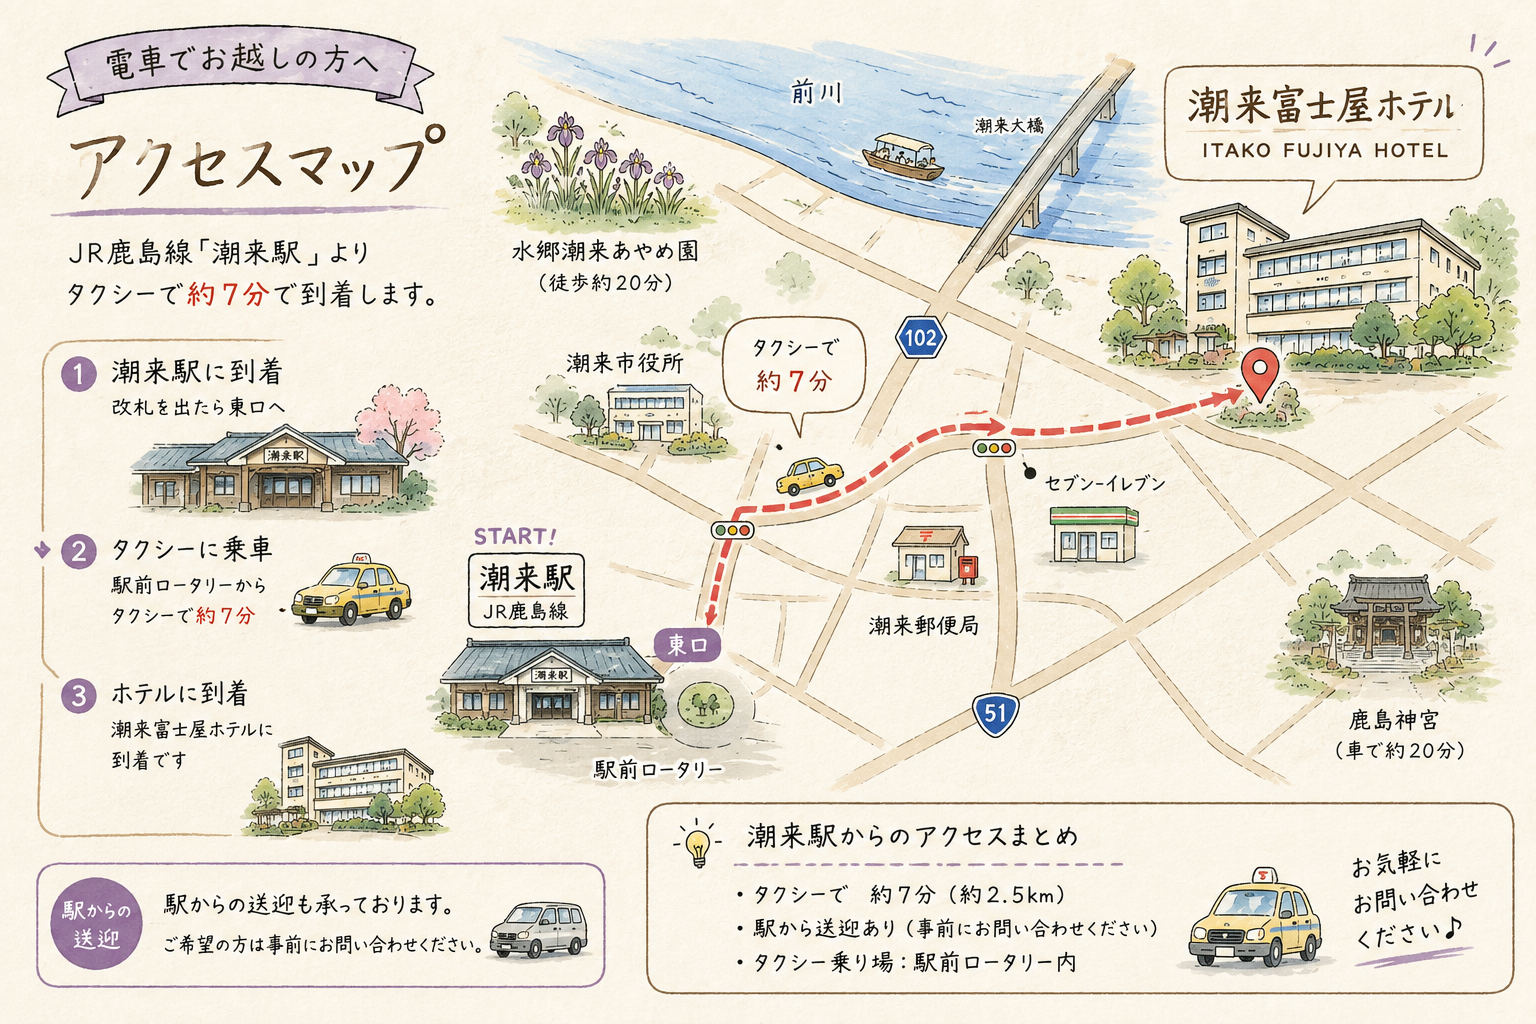
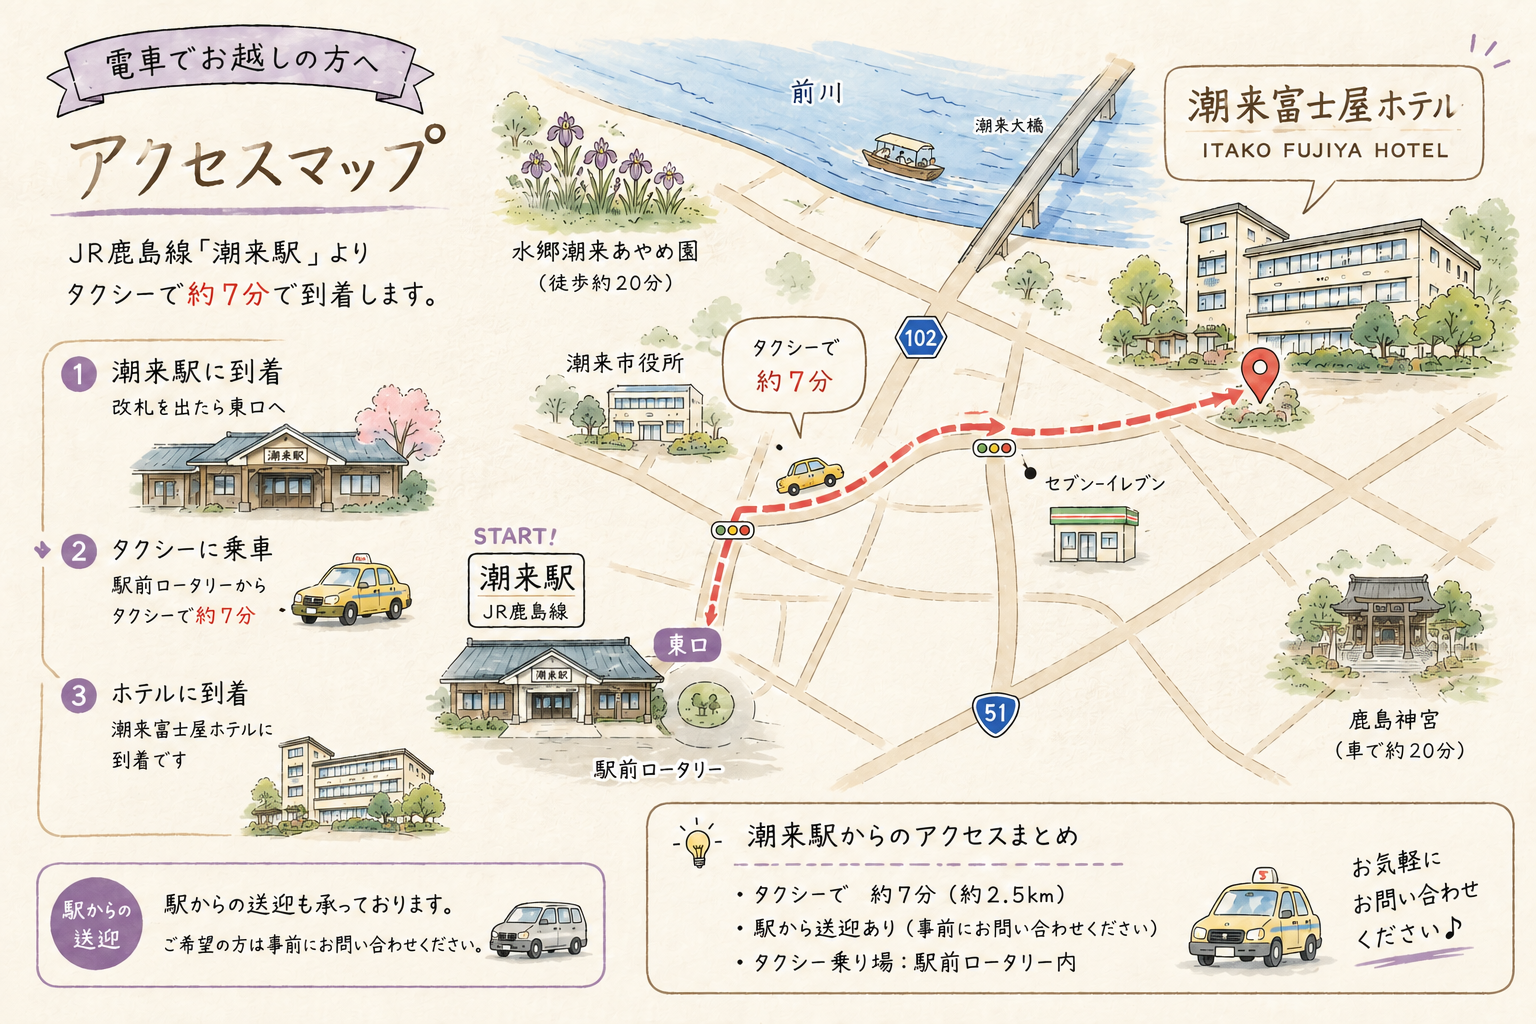
Update facilities and restore 16:00 check-in

diff --git a/src/i18n/public-translations.ts b/src/i18n/public-translations.ts
@@ -18,6 +18,12 @@ export const siteTranslations = {
     'booking.search': '空室を検索',
     'booking.searching': '確認中…',
     'booking.dateInputFormat': '年. 月. 日.',
+    'booking.availabilityChanged':
+      '選択された客室の空室状況が変更されました。恐れ入りますが、もう一度客室を選択してください。',
+    'booking.petPolicy': 'ペット同伴でのご宿泊はできません。',
+    'faq.petQuestion': 'ペットと一緒に宿泊できますか？',
+    'faq.petAnswer':
+      '申し訳ございませんが、ペット同伴でのご宿泊はできません。',
     'home.welcomeTitle': '庭を眺めながら、ゆったりとしたひとときを。',
     'home.welcomeDescription':
       '大きな窓から庭を望む、明るく開放的な空間。ご到着からご出発まで、どうぞゆっくりとお過ごしください。',
@@ -88,6 +94,11 @@ export const siteTranslations = {
     'booking.search': '객실 검색',
     'booking.searching': '확인 중…',
     'booking.dateInputFormat': '연도. 월. 일.',
+    'booking.availabilityChanged':
+      '선택하신 객실의 예약 가능 수량이 방금 변경되었습니다. 객실을 다시 선택해주세요.',
+    'booking.petPolicy': '반려동물 동반은 불가합니다.',
+    'faq.petQuestion': '반려동물과 함께 숙박할 수 있나요?',
+    'faq.petAnswer': '죄송하지만 반려동물 동반 숙박은 불가합니다.',
     'home.welcomeTitle': '정원을 바라보며, 여유로운 시간을.',
     'home.welcomeDescription':
       '큰 창 너머로 정원이 펼쳐지는 밝고 편안한 공간입니다. 도착부터 떠나는 순간까지, 편안하게 머물러 보세요.',
@@ -324,10 +335,6 @@ const publicPhrases: readonly [string, string][] = [
     '취소·변경·결제 등의 규정은 호텔 확인 후 게시합니다.',
   ],
   [
-    '予約・変更・キャンセル・お支払いに関する運用ルールは現在確認中です。',
-    '예약·변경·취소·결제 운영 규정은 현재 확인 중입니다.',
-  ],
-  [
     '現在の予約状態ではオンラインでキャンセルできません。',
     '현재 예약 상태에서는 온라인으로 취소할 수 없습니다.',
   ],
@@ -475,6 +482,44 @@ const publicPhrases: readonly [string, string][] = [
     'チェックイン・チェックアウトの際はもちろん、お出かけ前後のひと休みにもご利用いただけるロビースペースです。',
     '체크인과 체크아웃은 물론, 외출 전후 잠시 쉬어갈 수 있는 로비 공간입니다.',
   ],
+  ['レストラン', '레스토랑'],
+  [
+    '館内レストランにてお食事をお楽しみいただけます。',
+    '호텔 내 레스토랑에서 식사를 즐기실 수 있습니다.',
+  ],
+  [
+    '朝食は基本提供、夕食は追加でお選びいただけます。',
+    '조식이 기본 제공되며, 석식은 추가 선택이 가능합니다.',
+  ],
+  [
+    '落ち着いた雰囲気の中で、温かいお食事をご用意しております。',
+    '편안한 분위기의 식당에서 따뜻한 식사를 준비해드립니다.',
+  ],
+  ['レストランフォトギャラリー', '레스토랑 사진 갤러리'],
+  [
+    '潮来富士屋ホテル レストランの内観',
+    '이타코 후지야 호텔 레스토랑 내부 전경',
+  ],
+  ['お食事 1', '식사 1'],
+  ['お食事 2', '식사 2'],
+  ['お食事 3', '식사 3'],
+  ['お食事 4', '식사 4'],
+  [
+    '潮来富士屋ホテル レストランのお食事 1',
+    '이타코 후지야 호텔 레스토랑 식사 1',
+  ],
+  [
+    '潮来富士屋ホテル レストランのお食事 2',
+    '이타코 후지야 호텔 레스토랑 식사 2',
+  ],
+  [
+    '潮来富士屋ホテル レストランのお食事 3',
+    '이타코 후지야 호텔 레스토랑 식사 3',
+  ],
+  [
+    '潮来富士屋ホテル レストランのお食事 4',
+    '이타코 후지야 호텔 레스토랑 식사 4',
+  ],
   ['マッサージチェア', '마사지체어'],
   ['旅の疲れを、ゆったりリフレッシュ。', '여행의 피로를 편안하게 풀어보세요.'],
   [
@@ -618,8 +663,8 @@ const publicPhrases: readonly [string, string][] = [
     '체크인·체크아웃 시간은 언제인가요?',
   ],
   [
-    'チェックインは15:00、チェックアウトは10:00です。',
-    '체크인은 15:00, 체크아웃은 10:00입니다.',
+    'チェックインは16:00、チェックアウトは10:00です。',
+    '체크인은 16:00, 체크아웃은 10:00입니다.',
   ],
   [
     '気兼ねなくお過ごしいただける、落ち着いた館内です。',

diff --git a/src/data/facilities.ts b/src/data/facilities.ts
@@ -95,6 +95,59 @@ export const hotelLobby = {
   ],
 } as const
 
+export const restaurant = {
+  id: 'restaurant',
+  eyebrow: 'RESTAURANT',
+  title: 'レストラン',
+  catchcopy: '館内レストランにてお食事をお楽しみいただけます。',
+  description: [
+    '朝食は基本提供、夕食は追加でお選びいただけます。',
+    '落ち着いた雰囲気の中で、温かいお食事をご用意しております。',
+  ],
+  gallery: [
+    {
+      src: '/images/restaurant/restaurant-01.png',
+      title: 'レストラン',
+      alt: '潮来富士屋ホテル レストランの内観',
+      width: 1536,
+      height: 1024,
+      objectPosition: 'center',
+    },
+    {
+      src: '/images/restaurant/restaurant-meal-01.png',
+      title: 'お食事 1',
+      alt: '潮来富士屋ホテル レストランのお食事 1',
+      width: 1536,
+      height: 1024,
+      objectPosition: 'center',
+    },
+    {
+      src: '/images/restaurant/restaurant-meal-02.png',
+      title: 'お食事 2',
+      alt: '潮来富士屋ホテル レストランのお食事 2',
+      width: 1536,
+      height: 1024,
+      objectPosition: 'center',
+    },
+    {
+      src: '/images/restaurant/restaurant-meal-03.png',
+      title: 'お食事 3',
+      alt: '潮来富士屋ホテル レストランのお食事 3',
+      width: 1536,
+      height: 1024,
+      objectPosition: 'center',
+    },
+    {
+      src: '/images/restaurant/restaurant-meal-04.png',
+      title: 'お食事 4',
+      alt: '潮来富士屋ホテル レストランのお食事 4',
+      width: 1536,
+      height: 1024,
+      objectPosition: 'center',
+    },
+  ],
+} as const
+
 export const massageChair = {
   id: 'massage-chair',
   eyebrow: 'RELAX',

diff --git a/src/pages/public/BookingConfirmPage.tsx b/src/pages/public/BookingConfirmPage.tsx
@@ -43,7 +43,7 @@ const fallbackPolicies = [
 
 export function BookingConfirmPage() {
   const navigate = useNavigate()
-  const { locale } = useSiteTranslation()
+  const { locale, t } = useSiteTranslation()
   const [booking, setBooking] = useState<BookingDraft | null>(readBookingDraft)
   const [guest] = useState(readBookingGuestDraft)
   const [policies, setPolicies] = useState<CancellationPolicy[]>([])
@@ -109,11 +109,7 @@ export function BookingConfirmPage() {
         setPrivacyConsent(false)
         setPolicyConsent(false)
       } else if (result.code === 'BOOKING_NO_LONGER_AVAILABLE') {
-        setError(
-          locale === 'ko'
-            ? '선택하신 객실의 예약 가능 수량이 방금 변경되었습니다. 객실을 다시 선택해주세요.'
-            : '選択された客室の空室状況が変更されました。恐れ入りますが、もう一度客室を選択してください。',
-        )
+        setError(t('booking.availabilityChanged'))
       } else if (result.code === 'INVALID_BOOKING') {
         setError('予約内容を確認できませんでした。入力内容をご確認ください。')
       } else {
@@ -268,6 +264,12 @@ export function BookingConfirmPage() {
             <p className="font-semibold">現地払い</p>
             <p className="mt-2 text-sm leading-7 text-muted">
               ホテルにて現金またはクレジットカードでお支払いください。
+            </p>
+          </ConfirmSection>
+
+          <ConfirmSection title="ご利用案内">
+            <p className="text-sm leading-7 text-muted">
+              {t('booking.petPolicy')}
             </p>
           </ConfirmSection>
 

diff --git a/src/components/facilities/RestaurantSection.tsx b/src/components/facilities/RestaurantSection.tsx
@@ -1,0 +1,44 @@
+import { restaurant } from '../../data/facilities'
+import { FacilityGallery } from './FacilityGallery'
+
+export function RestaurantSection() {
+  return (
+    <section
+      id={restaurant.id}
+      className="border-b border-line py-16 sm:py-20 lg:py-24"
+    >
+      <div className="page-shell">
+        <header className="flex items-end justify-between gap-8 border-b border-line pb-6">
+          <div>
+            <p className="eyebrow">{restaurant.eyebrow}</p>
+            <h2 className="font-serif text-3xl font-medium leading-snug sm:text-4xl">
+              {restaurant.title}
+            </h2>
+          </div>
+          <p className="font-serif text-4xl text-accent/20 sm:text-5xl">03</p>
+        </header>
+
+        <div className="mt-8">
+          <FacilityGallery
+            images={restaurant.gallery}
+            initialIndex={0}
+            enableLightbox
+            ariaLabel="レストランフォトギャラリー"
+            showThumbnailTitles={false}
+          />
+        </div>
+
+        <div className="mt-8 grid gap-5 border-t border-line pt-7 lg:grid-cols-[minmax(0,0.85fr)_minmax(0,1.15fr)] lg:gap-14">
+          <p className="font-serif text-xl leading-relaxed text-accent sm:text-2xl">
+            {restaurant.catchcopy}
+          </p>
+          <div className="space-y-3 text-sm leading-7 text-muted sm:text-base sm:leading-8">
+            {restaurant.description.map((paragraph) => (
+              <p key={paragraph}>{paragraph}</p>
+            ))}
+          </div>
+        </div>
+      </div>
+    </section>
+  )
+}

diff --git a/src/pages/public/FaqPage.tsx b/src/pages/public/FaqPage.tsx
@@ -1,13 +1,20 @@
 import { PageHero } from '../../components/common/PageHero'
+import { useSiteTranslation } from '../../i18n/useSiteTranslation'
 
 const faqs = [
   [
     'チェックイン・チェックアウトの時間は？',
-    'チェックインは15:00、チェックアウトは10:00です。',
+    'チェックインは16:00、チェックアウトは10:00です。',
   ],
   ['客室は禁煙ですか？', '全客室禁煙です。'],
 ]
 export function FaqPage() {
+  const { t } = useSiteTranslation()
+  const localizedFaqs = [
+    ...faqs,
+    [t('faq.petQuestion'), t('faq.petAnswer')],
+  ]
+
   return (
     <>
       <PageHero
@@ -17,7 +24,7 @@ export function FaqPage() {
       />
       <section className="page-shell py-16 lg:py-24">
         <div className="mx-auto max-w-3xl divide-y divide-line border-y border-line">
-          {faqs.map(([q, a]) => (
+          {localizedFaqs.map(([q, a]) => (
             <details key={q} className="group py-6">
               <summary className="flex cursor-pointer list-none items-center justify-between gap-6 font-medium">
                 <span>
@@ -35,9 +42,6 @@ export function FaqPage() {
             </details>
           ))}
         </div>
-        <p className="mx-auto mt-8 max-w-3xl text-sm text-muted">
-          予約・変更・キャンセル・お支払いに関する運用ルールは現在確認中です。
-        </p>
       </section>
     </>
   )

diff --git a/src/pages/public/FacilitiesPage.tsx b/src/pages/public/FacilitiesPage.tsx
@@ -3,6 +3,7 @@ import { HotelLobbySection } from '../../components/facilities/HotelLobbySection
 import { LoungeArirangSection } from '../../components/facilities/LoungeArirangSection'
 import { MassageChairSection } from '../../components/facilities/MassageChairSection'
 import { PublicBathSection } from '../../components/facilities/PublicBathSection'
+import { RestaurantSection } from '../../components/facilities/RestaurantSection'
 
 export function FacilitiesPage() {
   return (
@@ -24,6 +25,7 @@ export function FacilitiesPage() {
       </section>
       <PublicBathSection />
       <HotelLobbySection />
+      <RestaurantSection />
       <MassageChairSection />
       <LoungeArirangSection />
     </>

diff --git a/src/i18n/admin-translations.ts b/src/i18n/admin-translations.ts
@@ -821,8 +821,8 @@ const phraseTranslations: readonly [string, string][] = [
     '무료 미취학 아동 인원을 확인해 주세요.',
   ],
   [
-    '15:00〜22:00の間で選択してください。',
-    '15:00~22:00 사이에서 선택해 주세요.',
+    '16:00〜22:00の間で選択してください。',
+    '16:00~22:00 사이에서 선택해 주세요.',
   ],
   ['在庫情報の取得に失敗しました。', '재고 정보를 불러오지 못했습니다.'],
   ['販売可能数を更新しました。', '판매 가능 수량을 업데이트했습니다.'],

diff --git a/src/components/facilities/LoungeArirangSection.tsx b/src/components/facilities/LoungeArirangSection.tsx
@@ -22,7 +22,7 @@ export function LoungeArirangSection() {
               {loungeArirang.title}
             </h2>
           </div>
-          <p className="font-serif text-4xl text-accent/20 sm:text-5xl">04</p>
+          <p className="font-serif text-4xl text-accent/20 sm:text-5xl">05</p>
         </header>
 
         <div className="grid gap-5 py-8 lg:grid-cols-[minmax(0,0.85fr)_minmax(0,1.15fr)] lg:gap-14">

diff --git a/src/components/facilities/MassageChairSection.tsx b/src/components/facilities/MassageChairSection.tsx
@@ -15,7 +15,7 @@ export function MassageChairSection() {
                 {massageChair.title}
               </h2>
             </div>
-            <p className="font-serif text-4xl text-accent/20 sm:text-5xl">03</p>
+            <p className="font-serif text-4xl text-accent/20 sm:text-5xl">04</p>
           </header>
 
           <p className="mt-7 font-serif text-xl leading-relaxed text-accent sm:text-2xl">

diff --git a/src/features/admin-reservations/reservation-helpers.ts b/src/features/admin-reservations/reservation-helpers.ts
@@ -13,7 +13,7 @@ import type {
   RateRuleDate,
 } from '../admin-rates/types'
 
-export const ADMIN_CHECK_IN_START_TIME = '15:00'
+export const ADMIN_CHECK_IN_START_TIME = '16:00'
 export const ADMIN_CHECK_IN_END_TIME = '22:00'
 export const ADMIN_CHECK_IN_TIME_RANGE_MESSAGE = `${ADMIN_CHECK_IN_START_TIME}〜${ADMIN_CHECK_IN_END_TIME}の間で選択してください。`
 

diff --git a/src/data/hotel.ts b/src/data/hotel.ts
@@ -8,9 +8,9 @@ export const hotelSettings: HotelSettings = {
   telephone: '0299-94-2662',
   fax: '0299-94-2663',
   email: null,
-  checkIn: '15:00',
+  checkIn: '16:00',
   checkOut: '10:00',
-  frontDeskOpen: '15:00',
+  frontDeskOpen: '16:00',
   frontDeskClose: '22:00',
   mapUrl: 'https://goo.gl/maps/GwPmVZCzfNbi5CRZ9',
 }

diff --git a/src/features/booking/guest-validation.ts b/src/features/booking/guest-validation.ts
@@ -1,9 +1,8 @@
 import type { BookingGuestDraft } from './types'
 
-export const CHECK_IN_START_TIME = '15:00'
+export const CHECK_IN_START_TIME = '16:00'
 export const CHECK_IN_END_TIME = '22:00'
 export const CHECK_IN_TIME_OPTIONS = [
-  '15:00',
   '16:00',
   '17:00',
   '18:00',
